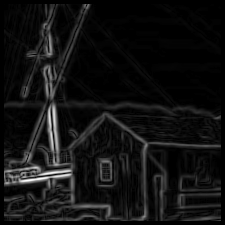
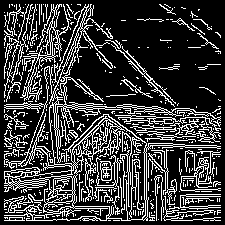
further debugging

diff --git a/canny.py b/canny.py
@@ -28,7 +28,7 @@ class CannyEdgeDetector:
         # Read Image
         self.image_read()
         # Gaussian Kernel used for smoothing
-        self._gaussian_kernel = np.array([[1.0,1.0,2.0,2.0,2.0,1.0,1.0],[1.0,2.0,2.0,4.0,2.0,2.0,1.0],[2.0,2.0,4.0,8.0,4.0,2.0,2.0],[2.0,4.0,8.0,16.0,8.0,4.0,2.0],[2.0,2.0,4.0,8.0,4.0,2.0,2.0],[1.0,2.0,2.0,4.0,2.0,2.0,1.0],[1.0,1.0,2.0,2.0,2.0,1.0,1.0]])
+        self._gaussian_kernel = np.array([[1,1,2,2,2,1,1],[1,2,2,4,2,2,1],[2,2,4,8,4,2,2],[2,4,8,16,8,4,2],[2,2,4,8,4,2,2],[1,2,2,4,2,2,1],[1,1,2,2,2,1,1]])
         # Gradient x and y operations Prewitt's Operators
         self._convolution_matrix_gx = np.array([[-1, 0, 1], [-1, 0, 1], [-1, 0, 1]])
         self._convolution_matrix_gy = np.array([[1, 1, 1], [0, 0, 0], [-1, -1, -1]])
@@ -114,6 +114,9 @@ class CannyEdgeDetector:
         
     # This function reads the path provided to it and calls the convert_to_matrix
     def image_read(self):
+
+        # self._image_matrix = cv2.imread(self.image_path, cv2.IMREAD_GRAYSCALE)
+
         src = cv2.imread(self.image_path)
         self.img = cv2.cvtColor(src, cv2.COLOR_BGR2GRAY)
         
@@ -266,6 +269,8 @@ class CannyEdgeDetector:
         # for sector 3
         elif((157.5 >= angle > 112.5) or (337.5>= angle > 292.5)):
             return '3'
+        else:
+            print('wtf')
         
         # return '0'
     
@@ -279,26 +284,29 @@ class CannyEdgeDetector:
             return ((current_i-1,current_j), (current_i+1,current_j))
         elif(current_sector == '3'):
             return ((current_i-1,current_j-1), (current_i+1,current_j+1))
+        else:
+            print('wtf')
 
     # Step 5 Thresholding
     def thresholding(self):
 
-        temp_magnitude = copy.deepcopy(self._magnitude)
+        temp_magnitude = copy.deepcopy(self._non_max_output)
         temp_magnitude = temp_magnitude[4: temp_magnitude.shape[0] - 4, 4: temp_magnitude.shape[1] - 4].flatten()
+        temp_magnitude = temp_magnitude[temp_magnitude != 0]
 
         # output according to 25th Percentile
-        magnitude = copy.deepcopy(self._magnitude)
-        percentile = np.percentile(magnitude, 25)
+        magnitude = copy.deepcopy(self._non_max_output)
+        percentile = np.percentile(temp_magnitude, 25)
         self._threshold_output_25 = self.threshold(magnitude, percentile)
 
         # output according to 50th Percentile
-        magnitude = copy.deepcopy(self._magnitude)
-        percentile = np.percentile(magnitude, 50)
+        magnitude = copy.deepcopy(self._non_max_output)
+        percentile = np.percentile(temp_magnitude, 50)
         self._threshold_output_50 = self.threshold(magnitude, percentile)
 
         # output according to 75th Percentile  
-        magnitude = copy.deepcopy(self._magnitude)
-        percentile = np.percentile(magnitude, 75)
+        magnitude = copy.deepcopy(self._non_max_output)
+        percentile = np.percentile(temp_magnitude, 75)
         self._threshold_output_75 = self.threshold(magnitude, percentile)
     
     # this function performs thresholding
@@ -312,6 +320,8 @@ class CannyEdgeDetector:
 
                 if magnitude[i,j] < T:
                     magnitude[i,j] = 0
+                else:
+                    magnitude[i, j] = 1
         
         return magnitude
     

diff --git a/test.py b/test.py
@@ -5,8 +5,8 @@
 from canny import CannyEdgeDetector
 
 if __name__ == '__main__':
-    detector = CannyEdgeDetector('C:/Users/Eashan/Desktop/canny-edge-detector/Images/Test-patterns.bmp')
+    detector = CannyEdgeDetector('Images/Test-patterns.bmp')
     detector.canny_detector()
 
-    detector = CannyEdgeDetector('C:/Users/Eashan/Desktop/canny-edge-detector/Images/House.bmp')
+    detector = CannyEdgeDetector('Images/House.bmp')
     detector.canny_detector()
